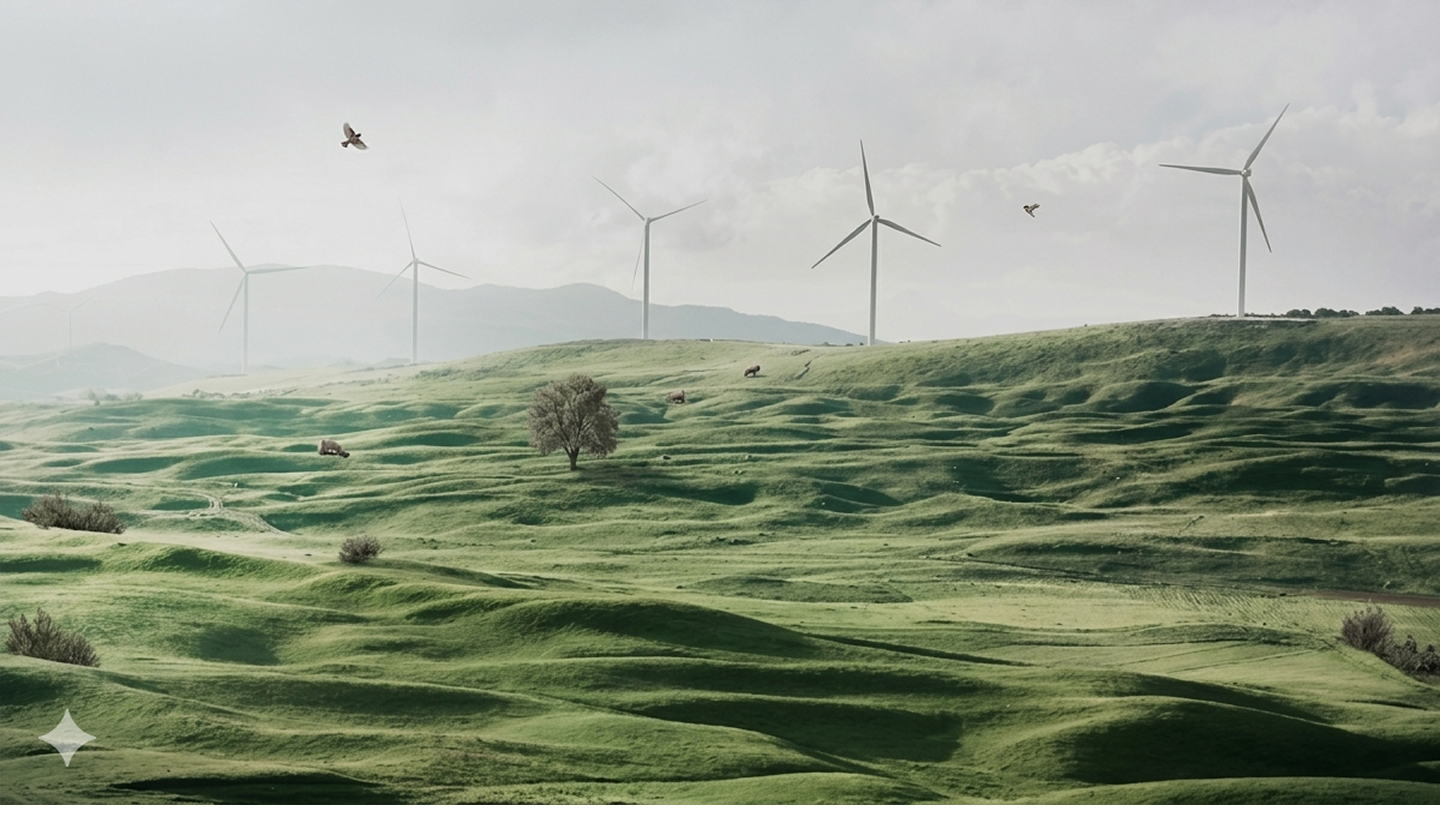
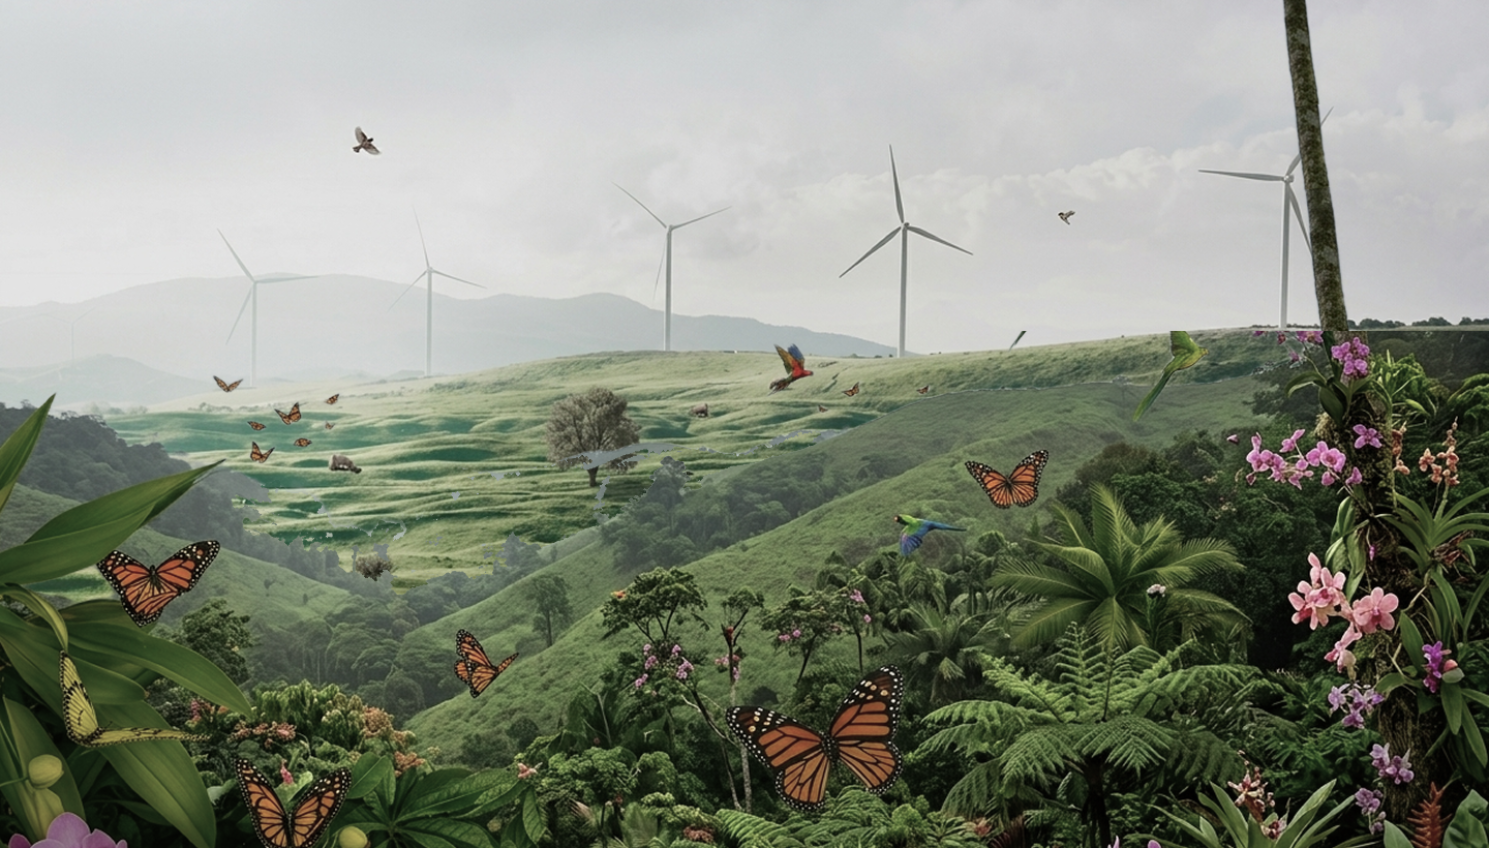
Replace background image, extract loop data to variable, extract svg

diff --git a/app/about/page.tsx b/app/about/page.tsx
@@ -9,6 +9,28 @@ const ABOUT_DATA = {
   image: "/about/hero.png",
 };
 
+const missionObjectives = [
+  { title: "Regional Collaboration", desc: "have questions about the forum, or want to contribute to biodiversity science, we&apos;d love to hear from you." },
+  { title: "Multi-Stakeholder Dialogue", desc: "Ahave questions about the forum, or want to contribute to biodiversity science, we&apos;d love to hear from you." },
+  { title: "Evidence-Based Policy", desc: "have questions about the forum, or want to contribute to biodiversity science, we&apos;d love to hear from you." },
+  { title: "Open Access Knowledge", desc: "have questions about the forum, or want to contribute to biodiversity science, we&apos;d love to hear from you." },
+];
+
+const milestones = [
+  { year: "2018", right: true },
+  { year: "2019", right: false },
+  { year: "2020", right: true },
+  { year: "2021", right: false },
+  { year: "2022", right: true },
+];
+
+const experts = [
+  { name: "Lisa Clarc", role: "UI/UX Designer", img: "/about/expert_1.png", desc: "Lisa's proactive support and problem-solving abilities make her an invaluable advocate for our customers." },
+  { name: "Olivia Manson", role: "Cloud Architect", img: "/about/expert_2.png", desc: "With a deep understanding of user behavior and industry best practices, she crafts engaging experiences that seamlessly blend form and function." },
+  { name: "Andrew Drue", role: "Project Manager", img: "/about/expert_3.png", desc: "An ambitious and exquisite personality that always strives to exceed expectations. Always there when someone is in need." },
+  { name: "Morgan John", role: "CEO", img: "/about/expert_4.png", desc: "With his expertise in digital marketing channels and data analytics, Michael consistently helps our SaaS company succeed." },
+];
+
 export default function About() {
   return (
     <div className="min-h-screen bg-white">
@@ -59,14 +81,9 @@ export default function About() {
                 Read full mission statement <span>→</span>
               </a>
             </div>
-            
+
             <div className="space-y-8 flex flex-col justify-center">
-              {[
-                { title: "Regional Collaboration", desc: "have questions about the forum, or want to contribute to biodiversity science, we&apos;d love to hear from you." },
-                { title: "Multi-Stakeholder Dialogue", desc: "Ahave questions about the forum, or want to contribute to biodiversity science, we&apos;d love to hear from you." },
-                { title: "Evidence-Based Policy", desc: "have questions about the forum, or want to contribute to biodiversity science, we&apos;d love to hear from you." },
-                { title: "Open Access Knowledge", desc: "have questions about the forum, or want to contribute to biodiversity science, we&apos;d love to hear from you." }
-              ].map((item, i) => (
+              {missionObjectives.map((item, i) => (
                 <div key={i} className="flex gap-4">
                   <div className="mt-1 flex-shrink-0 text-text-green">
                     <svg width="24" height="24" viewBox="0 0 24 24" fill="none" stroke="currentColor" strokeWidth="2" strokeLinecap="round" strokeLinejoin="round">
@@ -94,24 +111,17 @@ export default function About() {
                 Key Milestones
               </h2>
             </div>
-            
+
             <div className="relative">
-              <div className="absolute left-1/2 top-0 bottom-0 w-[2px] bg-background-base-lime-light -translate-x-1/2" />
-              
-              {[
-                { year: "2018", right: true },
-                { year: "2019", right: false },
-                { year: "2020", right: true },
-                { year: "2021", right: false },
-                { year: "2022", right: true },
-              ].map((milestone, i) => (
+              <div className="absolute left-1/2 top-0 bottom-0 w-[2px] bg-text-green -translate-x-1/2" />
+              {milestones.map((milestone, i) => (
                 <div key={i} className={`relative flex items-center mb-16 last:mb-0 ${milestone.right ? "justify-end" : "justify-start"}`}>
                   <div className={`w-1/2 ${milestone.right ? "pl-12" : "pr-12 text-right"}`}>
                     <p className="font-['inter'] text-sm font-semibold text-text-green mb-1">{milestone.year}</p>
                     <h4 className="font-['inter'] text-lg font-semibold text-text-green mb-2">Forum Concept Developed</h4>
                     <p className="font-['inter'] text-base text-text-green">Initial proposal for a regional biodiversity science<br/>platform by ACB</p>
                   </div>
-                  
+
                   <div className="absolute left-1/2 w-4 h-4 bg-text-green rounded-full -translate-x-1/2 border-2 border-[#EDF2EA]" />
                 </div>
               ))}
@@ -136,12 +146,7 @@ export default function About() {
             </div>
 
             <div className="grid md:grid-cols-2 gap-8 lg:gap-12">
-              {[
-                { name: "Lisa Clarc", role: "UI/UX Designer", img: "/about/expert_1.png", desc: "Lisa's proactive support and problem-solving abilities make her an invaluable advocate for our customers." },
-                { name: "Olivia Manson", role: "Cloud Architect", img: "/about/expert_2.png", desc: "With a deep understanding of user behavior and industry best practices, she crafts engaging experiences that seamlessly blend form and function." },
-                { name: "Andrew Drue", role: "Project Manager", img: "/about/expert_3.png", desc: "An ambitious and exquisite personality that always strives to exceed expectations. Always there when someone is in need." },
-                { name: "Morgan John", role: "CEO", img: "/about/expert_4.png", desc: "With his expertise in digital marketing channels and data analytics, Michael consistently helps our SaaS company succeed." },
-              ].map((expert, i) => (
+              {experts.map((expert, i) => (
                 <div key={i} className="flex flex-col sm:flex-row gap-6 bg-[#FaFaFa] rounded-2xl p-4 items-center sm:items-start">
                   <div className="relative w-[200px] h-[200px] md:w-[240px] md:h-[240px] flex-shrink-0">
                     <Image
@@ -159,16 +164,16 @@ export default function About() {
                     </p>
                     <div className="flex gap-4 items-center">
                       <a href="#" className="w-5 h-5 flex items-center justify-center text-text-black">
-                        <svg viewBox="0 0 24 24" fill="currentColor"><path d="M18.244 2.25h3.308l-7.227 8.26 8.502 11.24H16.17l-5.214-6.817L4.99 21.75H1.68l7.73-8.835L1.254 2.25H8.08l4.713 6.231zm-1.161 17.52h1.833L7.084 4.126H5.117z"/></svg>
+                        <Image src="/x.svg" alt="Icon X" className="w-full h-full" />
                       </a>
                       <a href="#" className="w-5 h-5 flex items-center justify-center text-text-black">
-                        <svg viewBox="0 0 24 24" fill="currentColor"><path d="M14 13.5h2.5l1-4H14v-2c0-1.03 0-2 2-2h1.5V2.14c-.326-.043-1.557-.14-2.857-.14C11.928 2 10 3.657 10 6.7v2.8H7v4h3V22h4v-8.5z"/></svg>
+                        <Image src="/facebook.svg" alt="Facebook Icon" className="w-full h-full" />
                       </a>
                       <a href="#" className="w-5 h-5 flex items-center justify-center text-text-black">
-                        <svg viewBox="0 0 24 24" fill="currentColor"><path d="M20.447 20.452h-3.554v-5.569c0-1.328-.027-3.037-1.852-3.037-1.853 0-2.136 1.445-2.136 2.939v5.667H9.351V9h3.414v1.561h.046c.477-.9 1.637-1.85 3.37-1.85 3.601 0 4.267 2.37 4.267 5.455v6.286zM5.337 7.433c-1.144 0-2.063-.926-2.063-2.065 0-1.138.92-2.063 2.063-2.063 1.14 0 2.064.925 2.064 2.063 0 1.139-.925 2.065-2.064 2.065zm1.782 13.019H3.555V9h3.564v11.452zM22.225 0H1.771C.792 0 0 .774 0 1.729v20.542C0 23.227.792 24 1.771 24h20.451C23.2 24 24 23.227 24 22.271V1.729C24 .774 23.2 0 22.222 0h.003z"/></svg>
+                        <Image src="/linkedin.svg" alt="LinkedIn Icon" className="w-full h-full" />
                       </a>
                       <a href="#" className="w-5 h-5 flex items-center justify-center text-text-black">
-\                        <svg viewBox="0 0 24 24" fill="currentColor"><path d="M12 2C6.48 2 2 6.48 2 12s4.48 10 10 10 10-4.48 10-10S17.52 2 12 2zm4.64 6.8c-.15 1.58-.8 5.42-1.13 7.19-.14.75-.42 1-.68 1.03-.58.05-1.02-.38-1.58-.75-.88-.58-1.38-.94-2.23-1.5-.96-.63-.34-.98.22-1.56.15-.15 2.71-2.48 2.76-2.69.01-.03.01-.14-.07-.18-.08-.05-.19-.02-.27 0-.11.03-1.85 1.18-5.23 3.46-.49.34-.94.51-1.35.5-.45-.01-1.3-.25-1.94-.46-.78-.26-1.4-.39-1.35-.83.03-.23.35-.47.96-.73 3.76-1.64 6.27-2.72 7.54-3.25 3.58-1.49 4.32-1.75 4.81-1.76.11 0 .35.03.48.14.11.09.14.22.15.34-.01.07-.01.19-.02.26z"/></svg>
+                        <Image src="/telegram.svg" alt="Telegram Icon" className="w-full h-full" />
                       </a>
                     </div>
                   </div>

diff --git a/app/events/page.tsx b/app/events/page.tsx
@@ -16,6 +16,47 @@ const EVENT_DATA = {
   image: "/events/hero.png"
 };
 
+const importantDates = [
+  { date: "1 June 2026", desc: "Abstract Submission\nOpens" },
+  { date: "15 August 2026", desc: "Abstract Deadline" },
+  { date: "1 September 2026", desc: "Abstract Submission\nOpens" },
+  { date: "15 October 2026", desc: "Abstract Submission\nOpens" },
+  { date: "10-12 November\n2026", desc: "Abstract Submission" },
+];
+
+const thematicAreas = [
+  { title: "Nature Based Solutions" },
+  { title: "Marine & Coastal Biodiversity" },
+  { title: "Nature Based Solutions" },
+  { title: "Marine & Coastal Biodiversity" },
+  { title: "Nature Based Solutions" },
+  { title: "Marine & Coastal Biodiversity" },
+];
+
+const keynoteSpeakers = [
+  { name: "Lisa Clarc", role: "UI/UX Designer", img: "/events/speaker_1.png", desc: "Lisa's proactive support and problem-solving abilities make her an invaluable advocate for our customers." },
+  { name: "Olivia Manson", role: "Cloud Architect", img: "/events/speaker_2.png", desc: "With a deep understanding of user behavior and industry best practices, she crafts engaging experiences that seamlessly blend form and function." },
+  { name: "Andrew Drue", role: "Project Manager", img: "/events/speaker_3.png", desc: "An ambitious and exquisite personality that always strives to exceed expectations. Always there when someone is in need." },
+  { name: "Morgan John", role: "CEO", img: "/events/speaker_4.png", desc: "With his expertise in digital marketing channels and data analytics, Michael consistently helps our SaaS company succeed." },
+];
+
+const registrationOptions = [
+  {
+    title: "Registration",
+    desc: "Harnessing ecosystems for climate adaption, disaster risk reduction, and sustainable livelihoods Harnessing ecosystems for climate adaption, disaster risk reduction, and sustainable",
+    iconBg: "bg-[#e5ebe4]",
+    iconColor: "text-[#5b7a63]",
+    icon: <svg className="w-6 h-6" fill="currentColor" viewBox="0 0 24 24"><path d="M14 2H6a2 2 0 0 0-2 2v16a2 2 0 0 0 2 2h12a2 2 0 0 0 2-2V8z" /><path d="M14 2v6h6M16 13H8M16 17H8M10 9H8" stroke="white" strokeWidth="2"/></svg>,
+  },
+  {
+    title: "Abstract Submission",
+    desc: "Harnessing ecosystems for climate adaption, disaster risk reduction, and sustainable livelihoods Harnessing ecosystems for climate adaption, disaster risk reduction, and sustainable",
+    iconBg: "bg-[#fcf5e2]",
+    iconColor: "text-[#ecca59]",
+    icon: <svg className="w-6 h-6" fill="currentColor" viewBox="0 0 24 24"><path d="M14 2H6a2 2 0 0 0-2 2v16a2 2 0 0 0 2 2h12a2 2 0 0 0 2-2V8z" /><path d="M14 2v6h6" stroke="white" strokeWidth="2"/></svg>,
+  },
+];
+
 export default function Events() {
   return (
     <div className="min-h-screen bg-white">
@@ -71,13 +112,7 @@ export default function Events() {
               Key dates & Deadlines
             </h2>
             <div className="mt-16 flex justify-center flex-wrap gap-4 lg:gap-6">
-              {[
-                { date: "1 June 2026", desc: "Abstract Submission\nOpens" },
-                { date: "15 August 2026", desc: "Abstract Deadline" },
-                { date: "1 September 2026", desc: "Abstract Submission\nOpens" },
-                { date: "15 October 2026", desc: "Abstract Submission\nOpens" },
-                { date: "10-12 November\n2026", desc: "Abstract Submission" },
-              ].map((item, i) => (
+              {importantDates.map((item, i) => (
                 <div key={i} className="flex flex-col items-center justify-center p-6 lg:p-8 bg-[#Fbfbfb] rounded-[20px] border border-[#e8efe8] w-[180px] lg:w-[220px] min-h-[160px] text-center">
                   <svg className="mb-4 text-[#265F44] w-6 h-6" fill="none" stroke="currentColor" strokeWidth="2" viewBox="0 0 24 24"><path d="M4 19.5A2.5 2.5 0 0 1 6.5 17H20" /><path d="M6.5 2H20v20H6.5A2.5 2.5 0 0 1 4 19.5v-15A2.5 2.5 0 0 1 6.5 2z" /></svg>
                   <p className="font-bold text-text-black text-[15px] lg:text-[16px] whitespace-pre-line leading-[1.3] mb-2">{item.date}</p>
@@ -97,14 +132,7 @@ export default function Events() {
               Thematic Areas
             </h2>
             <div className="grid md:grid-cols-2 lg:grid-cols-3 gap-6">
-              {[
-                { title: "Nature Based Solutions" },
-                { title: "Marine & Coastal Biodiversity" },
-                { title: "Nature Based Solutions" },
-                { title: "Marine & Coastal Biodiversity" },
-                { title: "Nature Based Solutions" },
-                { title: "Marine & Coastal Biodiversity" }
-              ].map((item, i) => (
+              {thematicAreas.map((item, i) => (
                 <div key={i} className="bg-white p-8 rounded-[20px]">
                   <h3 className="font-bold text-text-black text-[20px] mb-4">{item.title}</h3>
                   <p className="font-['inter'] text-text-grey-dark text-[15px] leading-[1.6]">
@@ -126,12 +154,7 @@ export default function Events() {
             </h2>
 
             <div className="grid md:grid-cols-2 gap-8 lg:gap-12">
-              {[
-                { name: "Lisa Clarc", role: "UI/UX Designer", img: "/events/speaker_1.png", desc: "Lisa's proactive support and problem-solving abilities make her an invaluable advocate for our customers." },
-                { name: "Olivia Manson", role: "Cloud Architect", img: "/events/speaker_2.png", desc: "With a deep understanding of user behavior and industry best practices, she crafts engaging experiences that seamlessly blend form and function." },
-                { name: "Andrew Drue", role: "Project Manager", img: "/events/speaker_3.png", desc: "An ambitious and exquisite personality that always strives to exceed expectations. Always there when someone is in need." },
-                { name: "Morgan John", role: "CEO", img: "/events/speaker_4.png", desc: "With his expertise in digital marketing channels and data analytics, Michael consistently helps our SaaS company succeed." },
-              ].map((expert, i) => (
+              {keynoteSpeakers.map((expert, i) => (
                 <div key={i} className="flex flex-col sm:flex-row gap-6 bg-[#FaFaFa] rounded-2xl p-4 items-center sm:items-start">
                   <div className="relative w-[200px] h-[200px] md:w-[240px] md:h-[240px] flex-shrink-0">
                     <Image
@@ -206,27 +229,12 @@ export default function Events() {
                 REGISTRATION
               </h2>
             </div>
-            
+
             <div className="grid md:grid-cols-2 gap-8">
-              {[
-                { 
-                  title: "Registration", 
-                  desc: "Harnessing ecosystems for climate adaption, disaster risk reduction, and sustainable livelihoods Harnessing ecosystems for climate adaption, disaster risk reduction, and sustainable",
-                  iconBg: "bg-[#e5ebe4]", 
-                  iconColor: "text-[#5b7a63]",
-                  icon: <svg className="w-6 h-6" fill="currentColor" viewBox="0 0 24 24"><path d="M14 2H6a2 2 0 0 0-2 2v16a2 2 0 0 0 2 2h12a2 2 0 0 0 2-2V8z" /><path d="M14 2v6h6M16 13H8M16 17H8M10 9H8" stroke="white" strokeWidth="2"/></svg>
-                },
-                { 
-                  title: "Abstract Submission", 
-                  desc: "Harnessing ecosystems for climate adaption, disaster risk reduction, and sustainable livelihoods Harnessing ecosystems for climate adaption, disaster risk reduction, and sustainable",
-                  iconBg: "bg-[#fcf5e2]", 
-                  iconColor: "text-[#ecca59]",
-                  icon: <svg className="w-6 h-6" fill="currentColor" viewBox="0 0 24 24"><path d="M14 2H6a2 2 0 0 0-2 2v16a2 2 0 0 0 2 2h12a2 2 0 0 0 2-2V8z" /><path d="M14 2v6h6" stroke="white" strokeWidth="2"/></svg>
-                }
-              ].map((item, i) => (
+              {registrationOptions.map((item, i) => (
                 <div key={i} className="bg-white p-8 rounded-[20px] flex flex-col md:flex-row gap-6 items-start">
                   <div className={"w-14 h-14 rounded-xl flex items-center justify-center flex-shrink-0 " + item.iconBg + " " + item.iconColor}>
-                    <svg className="w-6 h-6" fill="none" stroke="currentColor" strokeWidth="2" viewBox="0 0 24 24"><path d="M14 2H6a2 2 0 0 0-2 2v16a2 2 0 0 0 2 2h12a2 2 0 0 0 2-2V8l-6-6z" /><line x1="16" y1="13" x2="8" y2="13" /><line x1="16" y1="17" x2="8" y2="17" /><polyline points="10 9 9 9 8 9" /></svg>
+                    {item.icon}
                   </div>
                   <div className="flex-1 flex flex-col text-left">
                     <h3 className="font-bold text-text-black text-[24px] lg:text-[28px] mb-4">{item.title}</h3>

diff --git a/app/publications/page.tsx b/app/publications/page.tsx
@@ -53,10 +53,20 @@ export default function Publications() {
     }
   ];
 
+  const tabs = ["Proceedings", "Policy Brief", "Publications", "Technical Outputs", "Research Reports"];
+
+  const thematicTags = ["Marine", "Forest", "Invasive Species", "Forest", "Marine"];
+
+  const popularPosts = [
+    { date: "25 Apr 2023", title: "Lorem ipsum dolor sit amet, consectetur adipiscing elit." },
+    { date: "25 Apr 2023", title: "Lorem ipsum dolor sit amet, consectetur adipiscing elit." },
+    { date: "25 Apr 2023", title: "Lorem ipsum dolor sit amet, consectetur adipiscing elit." },
+  ];
+
   return (
     <div className="min-h-screen bg-white">
       <Header />
-      
+
       <main className="w-full relative z-0">
         <section className="bg-[#eef1e6] pt-[150px] px-[40px] md:px-[80px]">
           <div className="mx-auto max-w-[1400px]">
@@ -77,12 +87,11 @@ export default function Publications() {
 
         <section className="py-12 px-[40px] md:px-[80px]">
           <div className="mx-auto max-w-[1400px]">
-            
             <div className="flex bg-white rounded-2xl shadow-sm border border-[#e8efe8] p-2 overflow-x-auto gap-2 mb-10 max-w-fit">
               <button className="px-6 py-[8px] rounded-full bg-[#E9F8F1] text-[#27B973] border border-[#27B973] text-[14px] font-semibold whitespace-nowrap">
                 All
               </button>
-              {["Proceedings", "Policy Brief", "Publications", "Technical Outputs", "Research Reports"].map(tab => (
+              {tabs.map(tab => (
                 <button key={tab} className="px-6 py-[8px] rounded-full text-text-grey-dark text-[14px] font-semibold whitespace-nowrap hover:bg-gray-50 transition-colors">
                   {tab}
                 </button>
@@ -132,7 +141,7 @@ export default function Publications() {
                 <div className="bg-white rounded-[20px] border border-[#e8efe8] p-6">
                   <h3 className="font-bold text-[#111A13] text-[18px] mb-5">Thematic Area</h3>
                   <div className="flex flex-wrap gap-3">
-                    {["Marine", "Forest", "Invasive Species", "Forest", "Marine"].map((tag, i) => (
+                    {thematicTags.map((tag, i) => (
                       <span key={i} className="px-4 py-2 border border-[#d1d5db] rounded-[8px] text-[13px] font-semibold text-[#111a13]">
                         {tag}
                       </span>
@@ -143,11 +152,11 @@ export default function Publications() {
                 <div className="bg-white rounded-[20px] border border-[#e8efe8] p-6">
                   <h3 className="font-bold text-[#111A13] text-[18px] mb-5">Popular Post</h3>
                   <div className="flex flex-col">
-                    {[1, 2, 3].map((_, i) => (
+                    {popularPosts.map((post, i) => (
                       <div key={i} className="py-4 border-b border-[#e8efe8] last:border-0 first:pt-0 last:pb-0">
-                        <p className="font-['inter'] text-[13px] font-semibold text-[#265F44] mb-2">25 Apr 2023</p>
+                        <p className="font-['inter'] text-[13px] font-semibold text-[#265F44] mb-2">{post.date}</p>
                         <p className="font-semibold text-[15px] text-[#111a13] leading-[1.4]">
-                          Lorem ipsum dolor sit amet, consectetur adipiscing elit.
+                          {post.title}
                         </p>
                       </div>
                     ))}

diff --git a/app/page.tsx b/app/page.tsx
@@ -87,7 +87,7 @@ export default function Home() {
             backgroundPosition: "center",
           }}
         >
-          <div className="absolute inset-0 bg-gradient-to-b from-white/0 via-white/5 to-[#0f1c14]/70" />
+          <div className="absolute inset-0" />
           <div className="relative mx-auto grid w-full gap-10 pb-16 pt-28 lg:grid-cols-[1.2fr_0.8fr] min-h-[820px]">
             <div className="px-8 md:px-12 lg:px-0 lg:pl-[100px] space-y-5 text-[#1f3b2c] flex flex-col justify-center lg:justify-start">
               <div className="text-[56px] md:text-[72px] lg:text-[88px] font-semibold text-text-grey-dark leading-[1]">
@@ -147,7 +147,7 @@ export default function Home() {
               <div>
                 <h2 className="mt-10 text-[32px] sm:text-[40px] font-semibold leading-[1.2] text-white">
                   A space for biodiversity science,
-                  <br className="hidden lg:block" />
+                  <br className="lg:block" />
                   collaboration, and knowledge exchange.
                 </h2>
                 <p className="mt-2 font-['inter'] font-normal text-[18px] sm:text-[20px] leading-[1.6] text-[#93a299]">

diff --git a/app/globals.css b/app/globals.css
@@ -39,7 +39,7 @@ html {
   --color-text-black: #111A13;
   --color-text-green: #265F44;
   --color-text-green-light: #42AF7B;
-  --color-text-grey-dark: #515151;
+  --color-text-grey-dark: #2E2F1F;
   --color-text-grey-light: #AFAFAF;
   --color-text-grey-mid: #68727D;
   --color-text-lime: #857C00;
